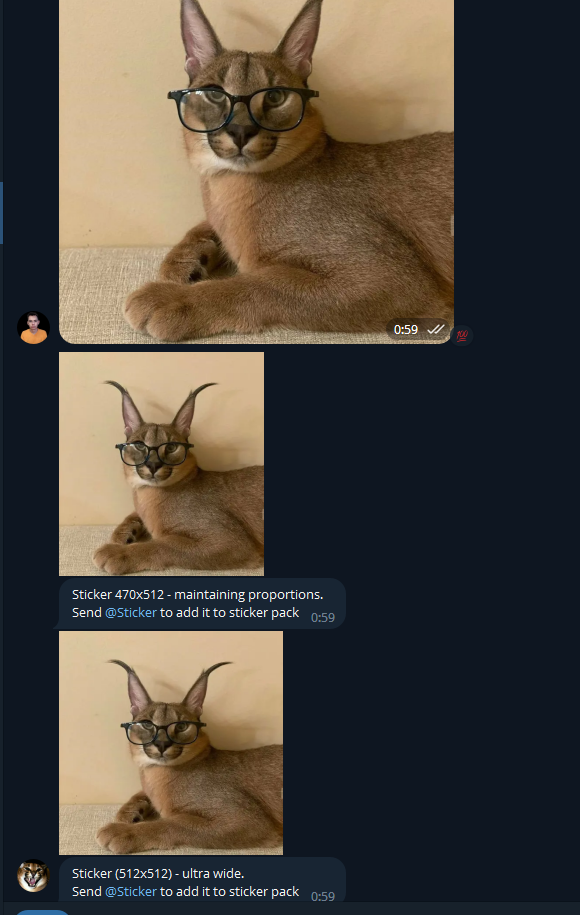
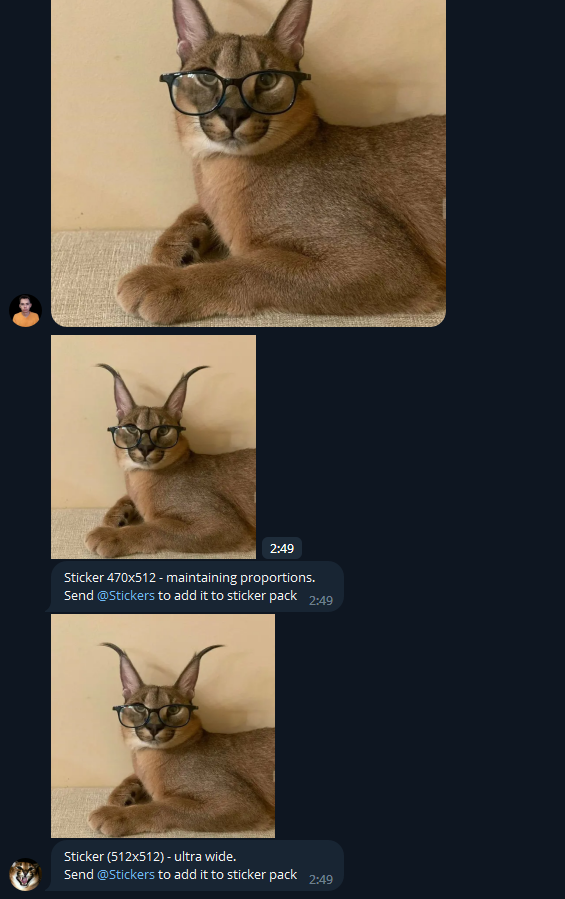
readme fix

Changed region(s): [[0.0, 0.0, 0.8124, 0.9967], [0.0, 0.9344, 0.1204, 1.0], [0.0, 0.1869, 0.0301, 0.2803]]

diff --git a/src/main/java/com/savelev/telegram/bot/core/TelegramBot.java b/src/main/java/com/savelev/telegram/bot/core/TelegramBot.java
@@ -25,10 +25,10 @@ public class TelegramBot extends TelegramLongPollingBot {
     private String botUsername;
 
     private final String resizedImageMessage = "Sticker %s - maintaining proportions." +
-                                               "\nSend @Sticker to add it to sticker pack";
+                                               "\nSend @Stickers to add it to sticker pack";
 
     private final String plainImageMessage = "Sticker (512x512) - ultra wide." +
-                                             "\nSend @Sticker to add it to sticker pack";
+                                             "\nSend @Stickers to add it to sticker pack";
 
 
     private final String helpMessage = """
